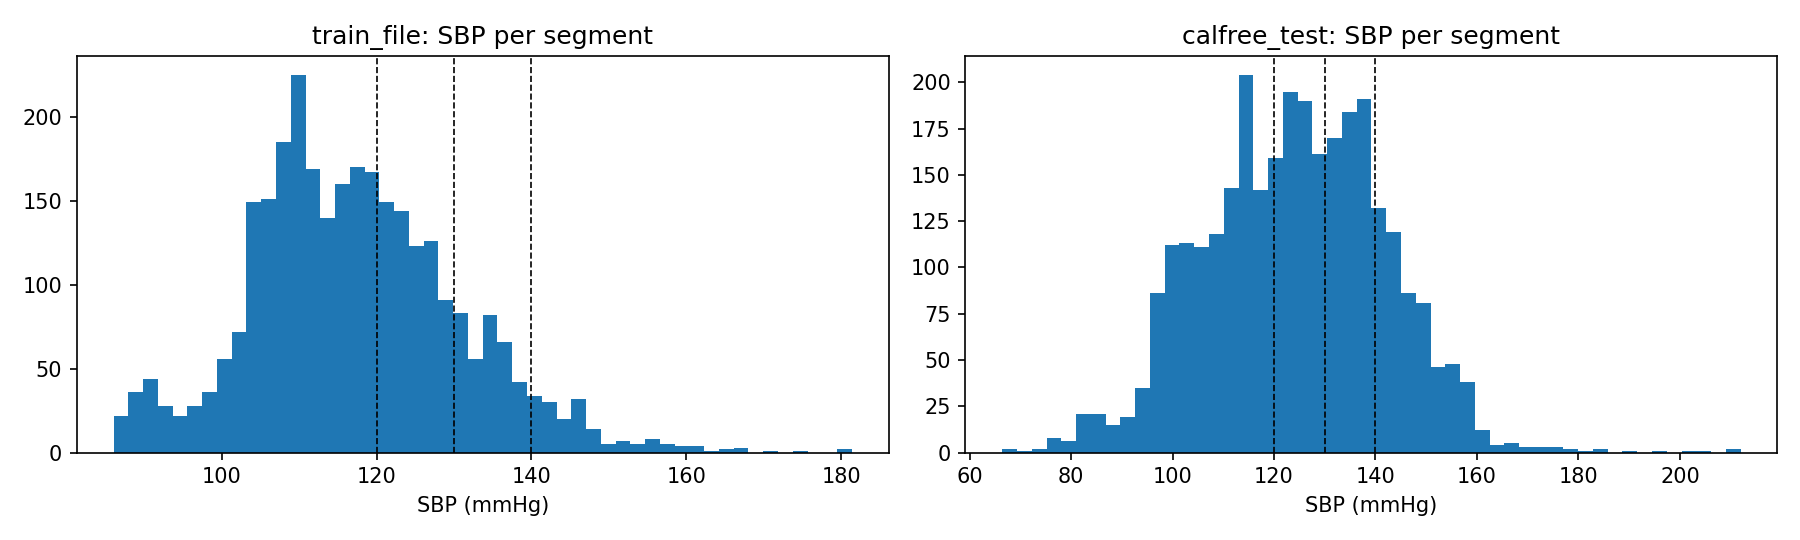
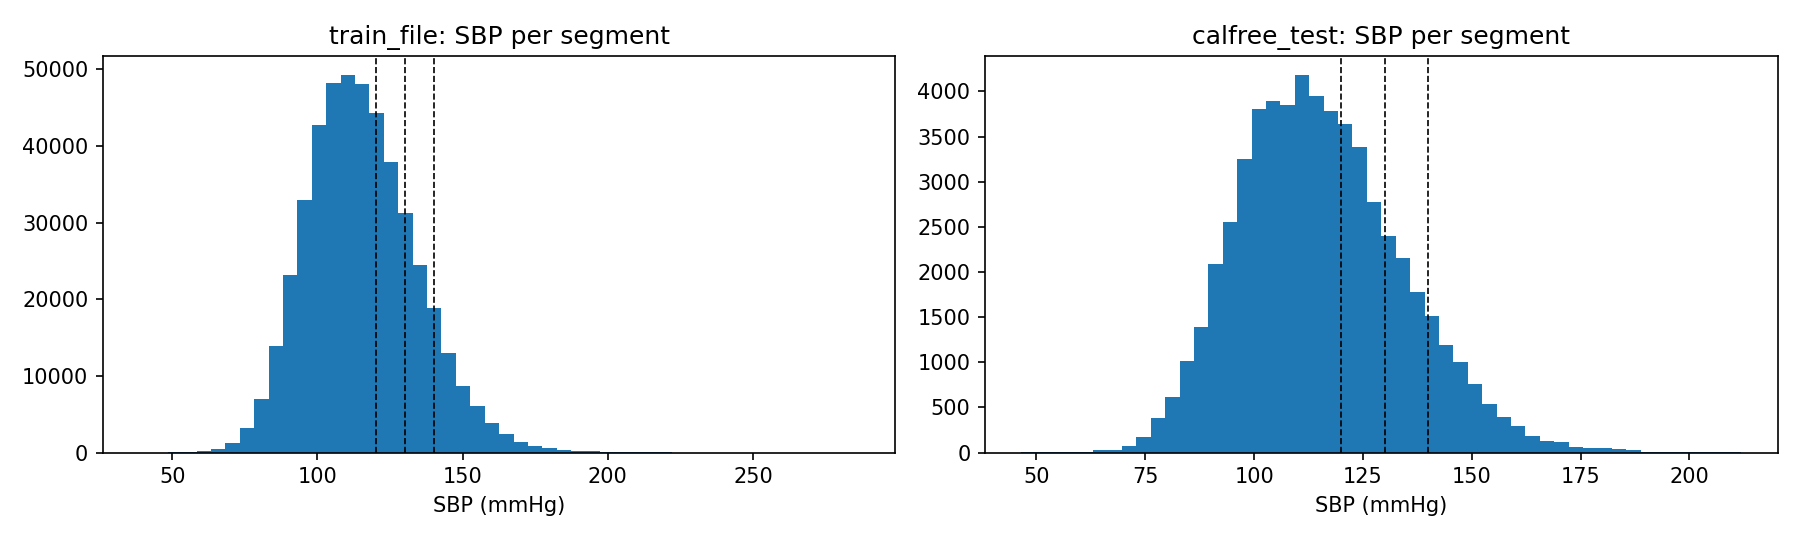
Ingest: full pipeline in src/ingest.py; full-run dataset_report.md (465480 train, 57600 calfree_test)

diff --git a/src/ingest.py b/src/ingest.py
@@ -1,83 +1,199 @@
-"""Data ingestion module for ppg-spark-vascular.
+# Usage:  python src/ingest_script.py --in-dir data/raw --out data/parquet [--max-segments 3000]
+import argparse, time
+from pathlib import Path
+import h5py
+import numpy as np
+import pandas as pd
+import pyarrow as pa
+import pyarrow.parquet as pq
+import matplotlib
+matplotlib.use("Agg")
+import matplotlib.pyplot as plt
 
-Handles reading raw PPG recordings (e.g., .mat, .h5, CSV), converting
-them to structured Spark DataFrames, and persisting them in Parquet format.
-"""
+L, FS = 1250, 125
+FILES = [("train_file", "VitalDB_Train_Subset.mat"),
+         ("calfree_test", "VitalDB_CalFree_Test_Subset.mat")]
+SCHEMA = pa.schema([
+    ("subject_id", pa.string()), ("segment_idx", pa.int32()),
+    ("file_split", pa.string()), ("split", pa.string()),
+    ("age", pa.float32()), ("sex", pa.float32()), ("height", pa.float32()),
+    ("weight", pa.float32()), ("bmi", pa.float32()),
+    ("sbp", pa.float32()), ("dbp", pa.float32()),
+    ("ppg", pa.list_(pa.float32())),
+])
 
-import argparse
-import os
-import sys
-from typing import Optional
+def decode(f, ref):
+    return "".join(chr(int(c)) for c in np.asarray(f[ref]).ravel())
 
-from pyspark.sql import SparkSession
-from pyspark.sql.types import (
-    ArrayType,
-    DoubleType,
-    IntegerType,
-    StringType,
-    StructField,
-    StructType,
-)
+def read_meta(f, g, n):
+    num = {k: np.asarray(g[k][0, :n], dtype=np.float64)
+           for k in ("Age", "BMI", "Height", "Weight", "SBP", "DBP")}
+    subj_refs, gen_refs = g["Subject"][0, :n], g["Gender"][0, :n]
+    subj = np.empty(n, dtype=object)
+    sex = np.full(n, np.nan)
+    prev, prev_sex = None, np.nan
+    for i in range(n):
+        s = decode(f, subj_refs[i])
+        if s != prev:                      # gender is constant per subject
+            c = decode(f, gen_refs[i]).strip().upper()
+            prev_sex = 1.0 if c == "M" else (0.0 if c == "F" else np.nan)
+            prev = s
+        subj[i], sex[i] = s, prev_sex
+        if i and i % 50000 == 0:
+            print(f"    resolved {i}/{n} subject labels", flush=True)
+    return num, subj, sex
 
+def assign_split(label, subj, seed):
+    if label == "calfree_test":
+        return np.array(["test"] * len(subj))
+    uniq = np.array(sorted(set(subj)))
+    np.random.default_rng(seed).shuffle(uniq)
+    val = set(uniq[: int(round(0.2 * len(uniq)))])
+    return np.array(["val" if s in val else "train" for s in subj])
 
-def create_spark_session(app_name: str = "PPG-Ingest") -> SparkSession:
-    """Initialize and return a SparkSession."""
-    return (
-        SparkSession.builder.appName(app_name)
-        .config("spark.sql.execution.arrow.pyspark.enabled", "true")
-        .getOrCreate()
-    )
+def detect_ppg_channel(sig, n, blocks=20, blk=100):
+    starts = np.unique(np.linspace(0, max(n - blk, 0), blocks).astype(int))
+    c0, c1, abp = [], [], []
+    for s in starts:
+        x = sig[:, :, s:min(s + blk, n)].astype(np.float64)
+        abp.append(np.median(x[:, 2, :]))
+        x_centered = x - x.mean(axis=0, keepdims=True)
+        a = x_centered[:, 2, :]
+        # Check physiological Pulse Transit Time (PTT) lags 0 to 60 samples (~0 to 480 ms at 125 Hz)
+        r0_lags, r1_lags = [], []
+        for lag in range(0, 60):
+            a_sub = a[lag:, :]
+            s0_sub = x_centered[:-lag or None, 0, :]
+            s1_sub = x_centered[:-lag or None, 1, :]
+            norm_a = np.sqrt((a_sub ** 2).sum(axis=0)) + 1e-12
+            r0 = (s0_sub * a_sub).sum(axis=0) / (np.sqrt((s0_sub ** 2).sum(axis=0)) * norm_a + 1e-12)
+            r1 = (s1_sub * a_sub).sum(axis=0) / (np.sqrt((s1_sub ** 2).sum(axis=0)) * norm_a + 1e-12)
+            r0_lags.append(r0)
+            r1_lags.append(r1)
+        c0.append(np.median(np.max(r0_lags, axis=0)))
+        c1.append(np.median(np.max(r1_lags, axis=0)))
+    r0, r1, a = float(np.median(c0)), float(np.median(c1)), float(np.median(abp))
+    print(f"    corr(ch0,ABP)={r0:.2f}  corr(ch1,ABP)={r1:.2f}  median ch2={a:.1f}")
+    if not (30 < a < 250):
+        raise RuntimeError("channel 2 does not look like ABP in mmHg")
+    if max(r0, r1) < 0.5:
+        raise RuntimeError("no channel correlates with ABP; check layout")
+    return (0 if r0 > r1 else 1), r0, r1
 
+def write_one(path, label, out_dir, chunk, max_seg, seed):
+    out_path = out_dir / f"{label}.parquet"
+    with h5py.File(path, "r") as f:
+        g = f["Subset"]; sig = g["Signals"]
+        if sig.shape[0] != L or sig.shape[1] != 3:
+            raise RuntimeError(f"unexpected Signals shape {sig.shape}")
+        N = sig.shape[2]; n = min(N, max_seg) if max_seg else N
+        print(f"[{label}] {N} segments in file, using {n}; hdf5 chunks={sig.chunks}", flush=True)
+        if sig.chunks:
+            ck = sig.chunks[2]; chunk = max(ck, (chunk // ck) * ck)
+        num, subj, sex = read_meta(f, g, n)
+        split = assign_split(label, subj, seed)
+        ch, r0, r1 = detect_ppg_channel(sig, n)
+        print(f"    PPG channel index = {ch}", flush=True)
+        writer = pq.ParquetWriter(out_path, SCHEMA, compression="snappy")
+        kept = np.zeros(n, dtype=bool)
+        t0 = time.time()
+        for a in range(0, n, chunk):
+            b = min(a + chunk, n)
+            x = np.ascontiguousarray(sig[:, ch, a:b].T, dtype=np.float32)   # (m, 1250)
+            ok = np.isfinite(x).all(axis=1) & (x.std(axis=1) > 1e-6)
+            idx = np.nonzero(ok)[0]
+            kept[a + idx] = True
+            if idx.size:
+                offs = np.arange(0, (idx.size + 1) * L, L, dtype=np.int32)
+                ppg = pa.ListArray.from_arrays(pa.array(offs), pa.array(x[idx].ravel()))
+                col = lambda v: pa.array(v[a:b][idx].astype(np.float32),
+                                         type=pa.float32(), from_pandas=True)
+                cols = [pa.array(subj[a:b][idx].tolist(), type=pa.string()),
+                        pa.array((a + idx).astype(np.int32)),
+                        pa.array([label] * idx.size, type=pa.string()),
+                        pa.array(split[a:b][idx].tolist(), type=pa.string()),
+                        col(num["Age"]), col(sex), col(num["Height"]),
+                        col(num["Weight"]), col(num["BMI"]),
+                        col(num["SBP"]), col(num["DBP"]), ppg]
+                writer.write_table(pa.Table.from_arrays(cols, schema=SCHEMA))
+            print(f"    {b}/{n} segments ({time.time()-t0:.0f}s)", flush=True)
+        writer.close()
+    df = pd.DataFrame({"subject_id": subj, "file_split": label, "split": split,
+                       "age": num["Age"], "sex": sex, "height": num["Height"],
+                       "weight": num["Weight"], "bmi": num["BMI"],
+                       "sbp": num["SBP"], "dbp": num["DBP"]})[kept].reset_index(drop=True)
+    return df, {"n": n, "ch": ch, "r0": r0, "r1": r1, "path": out_path}
 
-def load_raw_ppg_mat(file_path: str):
-    """Placeholder: Load raw PPG signals and metadata from MATLAB (.mat) format.
+def q(s):
+    return f"{s.median():.1f} [{s.quantile(.25):.1f}-{s.quantile(.75):.1f}]"
 
-    Uses `scipy.io` or `mat73` depending on MATLAB version (v7.3 vs older).
-    """
-    # TODO: Implement .mat file parsing using mat73 / scipy.io.loadmat
-    pass
+def make_report(dfs, infos, res_dir):
+    R = ["# Dataset report", ""]
+    if len(dfs) == 2:
+        ov = set(dfs["train_file"].subject_id) & set(dfs["calfree_test"].subject_id)
+        R.append(f"**Subject overlap train_file vs calfree_test: {len(ov)}**"
+                 + ("  <-- LEAKAGE, do not use calfree_test as the test set" if ov else " (good)"))
+        R.append("")
+    fig, axes = plt.subplots(1, len(dfs), figsize=(6 * len(dfs), 3.6), squeeze=False)
+    for ax, (name, d) in zip(axes[0], dfs.items()):
+        info, g = infos[name], d.groupby("subject_id")
+        per = g.size()
+        sub = g.agg(age=("age", "first"), sex=("sex", "first"), bmi=("bmi", "first"),
+                    sbp_med=("sbp", "median"), sbp_sd=("sbp", "std"))
+        grand = d.sbp.mean()
+        between = ((g.sbp.transform("mean") - grand) ** 2).sum() / ((d.sbp - grand) ** 2).sum()
+        bmi_calc = d.weight / (d.height / 100) ** 2
+        R += [f"## {name}",
+              f"- PPG channel index used: {info['ch']} (corr with ABP: ch0 {info['r0']:.2f}, ch1 {info['r1']:.2f})",
+              f"- segments written: {len(d)} of {info['n']} (dropped: {info['n'] - len(d)})",
+              f"- subjects: {per.size}; segments per subject min/median/max: {per.min()}/{int(per.median())}/{per.max()}",
+              f"- non-null %: age {d.age.notna().mean()*100:.1f}, sex {d.sex.notna().mean()*100:.1f}, bmi {d.bmi.notna().mean()*100:.1f}",
+              f"- subject-level age median [IQR]: {q(sub.age)}; BMI: {q(sub.bmi)}; female share: {(sub.sex == 0).mean()*100:.1f}%",
+              f"- subjects whose age / bmi varies across their segments: {int((g.age.nunique() > 1).sum())} / {int((g.bmi.nunique() > 1).sum())}",
+              f"- BMI vs weight/height^2: 99th pct abs diff = {(bmi_calc - d.bmi).abs().quantile(.99):.2f}",
+              f"- SBP quantiles 5/25/50/75/95: {d.sbp.quantile([.05,.25,.5,.75,.95]).round(1).tolist()}",
+              f"- DBP quantiles 5/25/50/75/95: {d.dbp.quantile([.05,.25,.5,.75,.95]).round(1).tolist()}",
+              f"- **share of SBP variance that is between subjects: {between*100:.1f}%** (the rest is within-subject, invisible to age/sex/BMI)",
+              f"- median within-subject SBP SD: {sub.sbp_sd.median():.1f} mmHg"]
+        for t in (120, 130, 140):
+            R.append(f"- SBP >= {t}: segments {(d.sbp >= t).mean()*100:.1f}% | subjects (median SBP) "
+                     f"{(sub.sbp_med >= t).sum()} of {len(sub)} ({(sub.sbp_med >= t).mean()*100:.1f}%)")
+        R.append("")
+        ax.hist(d.sbp, bins=50)
+        for t in (120, 130, 140):
+            ax.axvline(t, color="k", ls="--", lw=0.8)
+        ax.set_title(f"{name}: SBP per segment"); ax.set_xlabel("SBP (mmHg)")
+    fig.tight_layout(); fig.savefig(res_dir / "bp_hist.png", dpi=150); plt.close(fig)
+    (res_dir / "dataset_report.md").write_text("\n".join(R), encoding="utf-8")
+    print("\n".join(R))
 
-
-def load_raw_ppg_h5(file_path: str):
-    """Placeholder: Load raw PPG signals and metadata from HDF5 (.h5) format."""
-    # TODO: Implement .h5 file parsing using h5py
-    pass
-
-
-def ingest_data(input_dir: str, output_parquet: str, spark: Optional[SparkSession] = None):
-    """Read raw PPG files from `input_dir` and write partitioned Parquet dataset to `output_parquet`."""
-    if spark is None:
-        spark = create_spark_session()
-
-    print(f"[Ingest] Ingesting PPG data from: {input_dir}")
-    print(f"[Ingest] Target Parquet path: {output_parquet}")
-
-    # TODO: Traverse input_dir for raw recordings (.mat, .h5), extract PPG waveforms and metadata
-    # Schema placeholder
-    schema = StructType([
-        StructField("subject_id", StringType(), False),
-        StructField("record_id", StringType(), False),
-        StructField("sampling_rate_hz", DoubleType(), False),
-        StructField("ppg_raw", ArrayType(DoubleType()), False),
-        StructField("label_vascular_stiffness", DoubleType(), True),
-    ])
-
-    # Placeholder: Create empty DataFrame or demo data with the schema
-    df = spark.createDataFrame([], schema)
-
-    # Write output to Parquet (excluding from git)
-    os.makedirs(os.path.dirname(output_parquet) if os.path.dirname(output_parquet) else ".", exist_ok=True)
-    # df.write.mode("overwrite").parquet(output_parquet)
-    print(f"[Ingest] Pipeline completed. Output saved to {output_parquet}")
-
-
-def parse_args():
-    parser = argparse.ArgumentParser(description="Ingest raw PPG signals into Spark Parquet format.")
-    parser.add_argument("--input-dir", type=str, default="data/raw", help="Directory containing raw PPG files (.mat, .h5)")
-    parser.add_argument("--output-parquet", type=str, default="data/processed/ppg_raw.parquet", help="Output Parquet destination")
-    return parser.parse_args()
-
+def plot_samples(infos, res_dir):
+    fig, axes = plt.subplots(5, len(infos), figsize=(6 * len(infos), 9), squeeze=False)
+    for j, (name, info) in enumerate(infos.items()):
+        pf = pq.ParquetFile(info["path"])
+        t = pf.read_row_group(pf.num_row_groups // 2, columns=["ppg", "sbp", "subject_id"]).to_pandas()
+        pick = t.sample(min(5, len(t)), random_state=0)
+        for i, (_, r) in enumerate(pick.iterrows()):
+            axes[i, j].plot(np.arange(L) / FS, r.ppg, lw=0.8)
+            axes[i, j].set_title(f"{name} {r.subject_id} SBP={r.sbp:.0f}", fontsize=8)
+    fig.tight_layout(); fig.savefig(res_dir / "sample_waveforms.png", dpi=130); plt.close(fig)
 
 if __name__ == "__main__":
-    args = parse_args()
-    ingest_data(input_dir=args.input_dir, output_parquet=args.output_parquet)
+    ap = argparse.ArgumentParser()
+    ap.add_argument("--in-dir", default="data/raw")
+    ap.add_argument("--out", default="data/parquet")
+    ap.add_argument("--chunk", type=int, default=20000)
+    ap.add_argument("--max-segments", type=int, default=0)
+    ap.add_argument("--seed", type=int, default=42)
+    a = ap.parse_args()
+    out_dir, res_dir = Path(a.out), Path("results")
+    out_dir.mkdir(parents=True, exist_ok=True); res_dir.mkdir(exist_ok=True)
+    print("Writing to:", out_dir.resolve(), "| reports in:", res_dir.resolve(), flush=True)
+    dfs, infos = {}, {}
+    for label, fname in FILES:
+        dfs[label], infos[label] = write_one(Path(a.in_dir) / fname, label, out_dir,
+                                             a.chunk, a.max_segments, a.seed)
+    make_report(dfs, infos, res_dir)
+    plot_samples(infos, res_dir)
+    print("\nDone. Parquet size on disk: "
+          f"{sum(p.stat().st_size for p in out_dir.glob('*.parquet'))/1e9:.2f} GB")

diff --git a/results/dataset_report.md b/results/dataset_report.md
@@ -3,33 +3,33 @@
 **Subject overlap train_file vs calfree_test: 0** (good)
 
 ## train_file
-- PPG channel index used: 1 (corr with ABP: ch0 0.41, ch1 0.92)
-- segments written: 3000 of 3000 (dropped: 0)
-- subjects: 9; segments per subject min/median/max: 120/360/360
+- PPG channel index used: 1 (corr with ABP: ch0 0.32, ch1 0.95)
+- segments written: 465480 of 465480 (dropped: 0)
+- subjects: 1293; segments per subject min/median/max: 360/360/360
 - non-null %: age 100.0, sex 100.0, bmi 100.0
-- subject-level age median [IQR]: 67.0 [45.0-75.0]; BMI: 20.7 [19.5-22.4]; female share: 44.4%
-- subjects whose age / bmi varies across their segments: 0 / 0
+- subject-level age median [IQR]: 61.0 [51.0-70.0]; BMI: 22.8 [20.7-25.0]; female share: 42.3%
+- subjects whose age / bmi varies across their segments: 11 / 17
 - BMI vs weight/height^2: 99th pct abs diff = 0.05
-- SBP quantiles 5/25/50/75/95: [95.5, 108.3, 116.2, 125.6, 140.7]
-- DBP quantiles 5/25/50/75/95: [48.0, 55.3, 65.1, 75.6, 86.6]
-- **share of SBP variance that is between subjects: 25.0%** (the rest is within-subject, invisible to age/sex/BMI)
-- median within-subject SBP SD: 11.3 mmHg
-- SBP >= 120: segments 39.1% | subjects (median SBP) 3 of 9 (33.3%)
-- SBP >= 130: segments 16.7% | subjects (median SBP) 0 of 9 (0.0%)
-- SBP >= 140: segments 5.4% | subjects (median SBP) 0 of 9 (0.0%)
+- SBP quantiles 5/25/50/75/95: [87.4, 102.1, 114.0, 127.3, 148.6]
+- DBP quantiles 5/25/50/75/95: [44.6, 54.4, 62.2, 70.5, 83.8]
+- **share of SBP variance that is between subjects: 41.5%** (the rest is within-subject, invisible to age/sex/BMI)
+- median within-subject SBP SD: 13.2 mmHg
+- SBP >= 120: segments 37.7% | subjects (median SBP) 419 of 1293 (32.4%)
+- SBP >= 130: segments 21.1% | subjects (median SBP) 161 of 1293 (12.5%)
+- SBP >= 140: segments 10.3% | subjects (median SBP) 44 of 1293 (3.4%)
 
 ## calfree_test
-- PPG channel index used: 1 (corr with ABP: ch0 0.36, ch1 0.95)
-- segments written: 3000 of 3000 (dropped: 0)
-- subjects: 8; segments per subject min/median/max: 200/400/400
+- PPG channel index used: 1 (corr with ABP: ch0 0.29, ch1 0.94)
+- segments written: 57600 of 57600 (dropped: 0)
+- subjects: 144; segments per subject min/median/max: 400/400/400
 - non-null %: age 100.0, sex 100.0, bmi 100.0
-- subject-level age median [IQR]: 58.5 [44.0-69.2]; BMI: 24.5 [23.5-25.2]; female share: 25.0%
-- subjects whose age / bmi varies across their segments: 0 / 0
+- subject-level age median [IQR]: 60.5 [48.0-71.0]; BMI: 23.1 [20.7-24.5]; female share: 40.3%
+- subjects whose age / bmi varies across their segments: 0 / 1
 - BMI vs weight/height^2: 99th pct abs diff = 0.05
-- SBP quantiles 5/25/50/75/95: [96.5, 112.0, 124.4, 136.7, 152.5]
-- DBP quantiles 5/25/50/75/95: [50.8, 61.3, 66.8, 74.9, 95.1]
-- **share of SBP variance that is between subjects: 33.3%** (the rest is within-subject, invisible to age/sex/BMI)
-- median within-subject SBP SD: 14.7 mmHg
-- SBP >= 120: segments 59.1% | subjects (median SBP) 5 of 8 (62.5%)
-- SBP >= 130: segments 38.6% | subjects (median SBP) 2 of 8 (25.0%)
-- SBP >= 140: segments 17.9% | subjects (median SBP) 1 of 8 (12.5%)
+- SBP quantiles 5/25/50/75/95: [87.5, 101.9, 113.9, 127.2, 148.4]
+- DBP quantiles 5/25/50/75/95: [44.7, 54.5, 62.7, 70.3, 83.5]
+- **share of SBP variance that is between subjects: 39.5%** (the rest is within-subject, invisible to age/sex/BMI)
+- median within-subject SBP SD: 13.3 mmHg
+- SBP >= 120: segments 37.7% | subjects (median SBP) 42 of 144 (29.2%)
+- SBP >= 130: segments 21.1% | subjects (median SBP) 18 of 144 (12.5%)
+- SBP >= 140: segments 10.3% | subjects (median SBP) 6 of 144 (4.2%)
